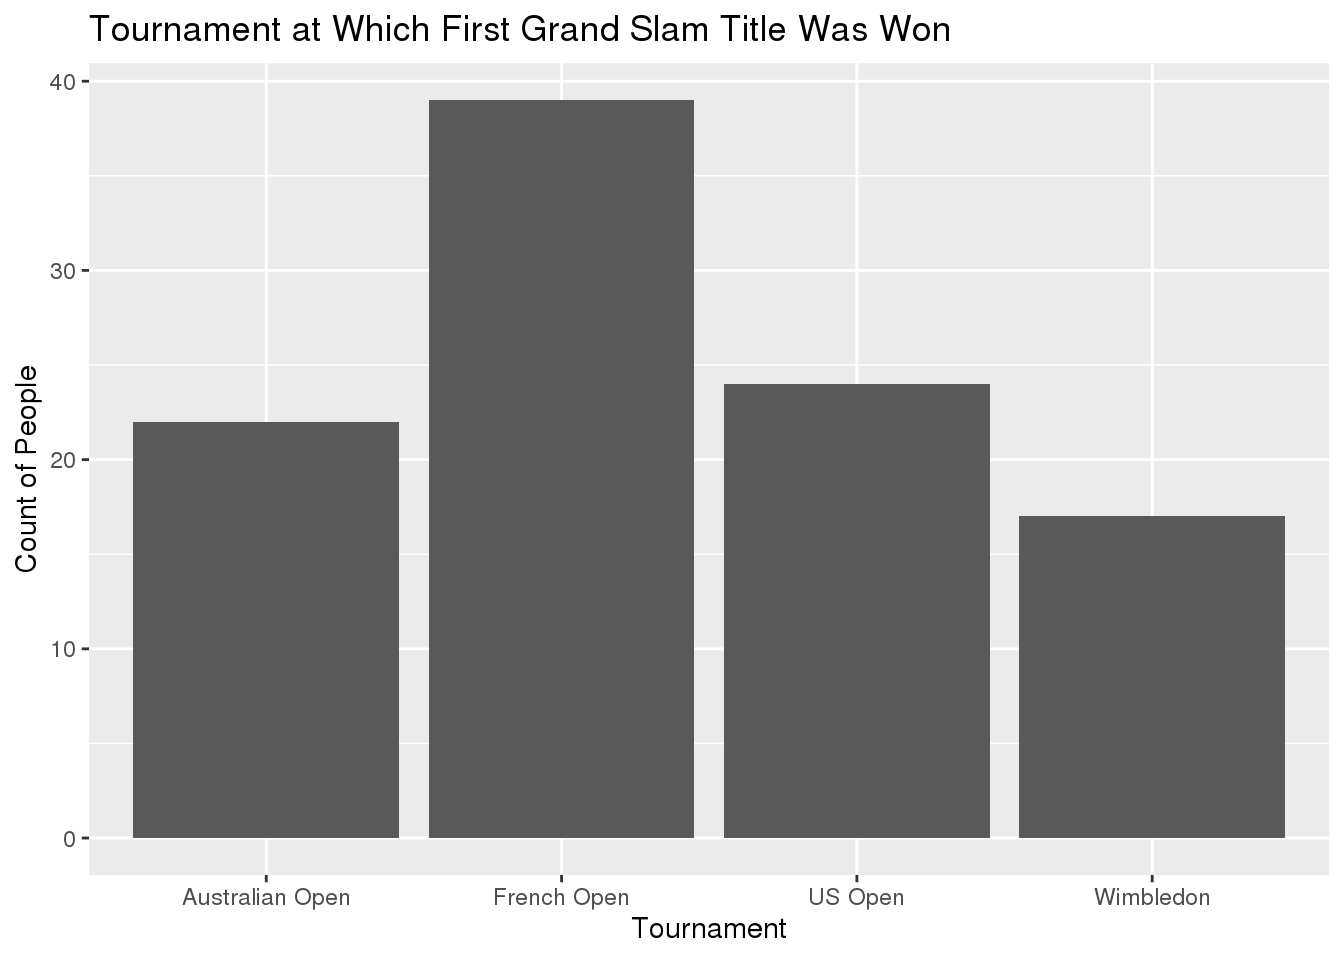
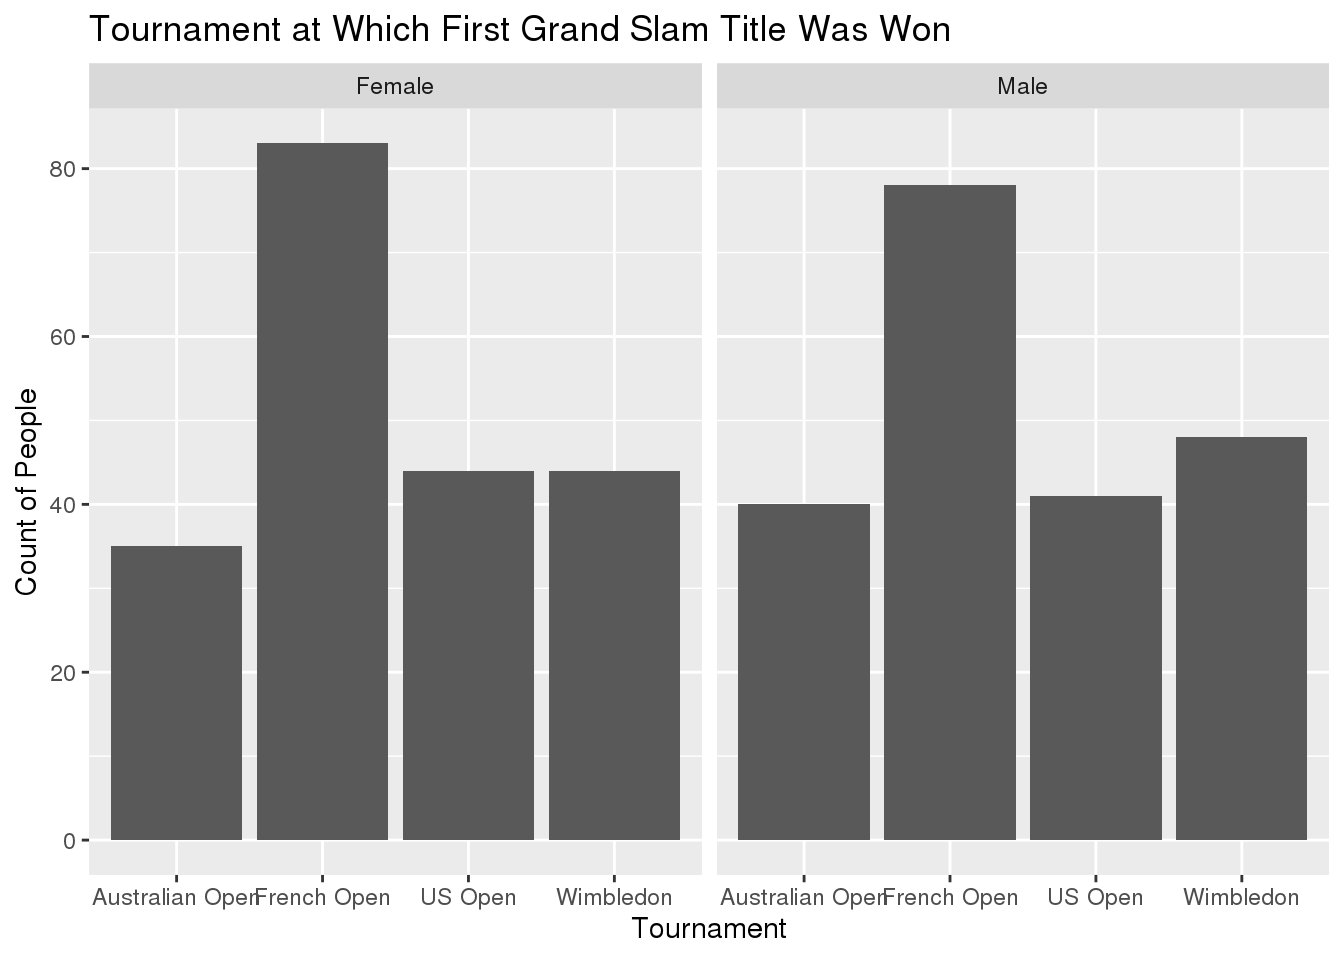
added commentary to graphics for tennis

diff --git a/content/post/2020-12-08-tennis-grand-slams/index.html b/content/post/2020-12-08-tennis-grand-slams/index.html
@@ -27,21 +27,22 @@ dat3 &lt;- read_csv(here::here(&quot;data&quot;, &quot;player_dob.csv&quot;))</c
 <p>The third data set comes from the <code>player_dob.csv</code> file on the Tidy Tuesday website. This data set has 105 observations of 5 variables. The <code>name</code> variable is the same as in the previous data set. For this data set, <code>grand_slam</code> indicates what tournament the player was playing at when they won their first grand slam. <code>date_of_first_title</code> gives the date at which this occurs. <code>date_of_birth</code> gives the date of birth of the player, allowing <code>age</code> to be calculated by finding the difference in number of days between the <code>date_of_first_title</code> and <code>date_of_birth</code> to give the age at the time of first grand slam championship.</p>
 <div id="question-1" class="section level2">
 <h2>Question 1</h2>
-<p>What grand slam is most common to win a first title at?
-* I will explore this by using the third data set to create a bar chart displaying how many players won their first grand slam at a given tournament. This could also be explored with facets such as age and gender.</p>
+<p>What grand slam is most common to win a first title at?</p>
 <pre class="r"><code>dat3 %&gt;%
-  filter(!is.na(grand_slam)) %&gt;%
-  ggplot(., aes(x = grand_slam)) +
+  left_join(dat2, c(&quot;name&quot; = &quot;name&quot;)) %&gt;%
+  filter(!is.na(grand_slam.x)) %&gt;%
+  ggplot(., aes(x = grand_slam.x)) +
   geom_bar() +
+  facet_wrap(&quot;gender&quot;) +
   ggtitle(&quot;Tournament at Which First Grand Slam Title Was Won&quot;) +
   ylab(&quot;Count of People&quot;) +
   xlab(&quot;Tournament&quot;)</code></pre>
-<p><img src="index_files/figure-html/unnamed-chunk-2-1.png" width="672" /></p>
+<p><img src="index_files/figure-html/unnamed-chunk-2-1.png" width="672" />
+The above graph shows that for both women and men, the majority of players win their first grand slam title at the French Open. Additionally the Australian Open has the least number of first time wins for both. It makes sense that the Australian Open has the least amount of first time wins since it is the first tournament of the calendar year. With the French Open being the second tournament of the year, and taking place several months after the Australian Open, it appears that the players come more prepared to their second tournament of the year to win a title for the first time.</p>
 </div>
 <div id="question-2" class="section level2">
 <h2>Question 2</h2>
-<p>Do players that are younger at the time of first grand slam win more tournaments overall?
-* I will analyze this by plotting the age at first win vs. number of rolling wins at the end of the data set. This could also be analyzed broken down into gender categories.</p>
+<p>Do players that are younger at the time of first grand slam win more tournaments overall?</p>
 <pre class="r"><code>dat2 %&gt;%
   group_by(name) %&gt;%
   filter(rolling_win_count == max(rolling_win_count)) %&gt;%
@@ -69,12 +70,12 @@ dat3 &lt;- read_csv(here::here(&quot;data&quot;, &quot;player_dob.csv&quot;))</c
   ggtitle(&quot;Total Number of Grand Slams Won vs. Age at First Win by Gender&quot;) +
   xlab(&quot;Age (in years)&quot;) +
   ylab(&quot;Total number of wins&quot;)</code></pre>
-<p><img src="index_files/figure-html/unnamed-chunk-3-2.png" width="672" /></p>
+<p><img src="index_files/figure-html/unnamed-chunk-3-2.png" width="672" />
+The graphs above show the total number of wins plotted against the age in years of a player when they won their first Grand Slam tournament. The first graph shows overall for both men and women, and the second graph breaks it down between men and women. In both graphs you can see that for the players that win their first tournament close to age 20, there is a significant difference in the number of grand slams that they will go on to win as opposed to those who win their first tournament in later years. This trend seems to be more predominant for women players. Although the total number of grand slams won appears to be close to the same for men and women, the drop off occurs at a later age for men, and occurs less drastically than with the change in number of wins for women.</p>
 </div>
 <div id="question-3" class="section level2">
 <h2>Question 3</h2>
-<p>How does the age of first title won differ between males and females?
-* This can be analyzed by creating a histogram of the age at which the first title is won and faceting by gender.</p>
+<p>How does the age of first title won differ between males and females?</p>
 <pre class="r"><code>dat2 %&gt;%
   group_by(name) %&gt;%
   filter(rolling_win_count == max(rolling_win_count)) %&gt;%
@@ -87,12 +88,12 @@ dat3 &lt;- read_csv(here::here(&quot;data&quot;, &quot;player_dob.csv&quot;))</c
   ggtitle(&quot;Distribution of Age at Which First Grand Slam was Won by Gender&quot;) +
   xlab(&quot;Age (in years)&quot;) +
   ylab(&quot;Number of people&quot;)</code></pre>
-<p><img src="index_files/figure-html/unnamed-chunk-4-1.png" width="672" /></p>
+<p><img src="index_files/figure-html/unnamed-chunk-4-1.png" width="672" />
+The histograms above show the distribution of the age of the players when they won their first grand slam divided into males and females. The distribution of the ages of females appears to be more skewed right while the distribution of the males appears to be much more normally distributed. This indicates that on average, females tend to be younger when winning their first grand slam tournament. This lines up with the graph show above in the previous question that women need to win a grand slam tournament at a younger age in order to have more career wins.</p>
 </div>
 <div id="question-4" class="section level2">
 <h2>Question 4</h2>
-<p>What tournament was most frequently missed?
-* This can be found by creating a bar chart of the tournaments and the counts of the number of players that were absent from the tournament. Additionally this could be split into male and female categories.</p>
+<p>What tournament was most frequently missed?</p>
 <pre class="r"><code>dat1 %&gt;%
   filter(outcome == &quot;Absent&quot;) %&gt;%
   ggplot(., aes(x = tournament)) +
@@ -109,6 +110,7 @@ dat3 &lt;- read_csv(here::here(&quot;data&quot;, &quot;player_dob.csv&quot;))</c
   ggtitle(&quot;Count of the Number of People That Missed Each Grand Slam by Gender&quot;) +
   xlab(&quot;Tournament&quot;) +
   ylab(&quot;Count of players&quot;)</code></pre>
-<p><img src="index_files/figure-html/unnamed-chunk-5-2.png" width="672" /></p>
+<p><img src="index_files/figure-html/unnamed-chunk-5-2.png" width="672" />
+The two charts above show the total number of players that did not attend a certain tournament, and the second chart breaks it down into women and men. In all three graphics, the Australian Open is the most missed tournament. This is also interesting to look at because going back to the first question, the Australian Open was the tournament that the least number of people won their first grand slam title at. This makes sense if a large number of people are choosing to not play in the tournament. It is also interesting to note that the total number of absent players for the women is higher than for the men.</p>
 </div>
 </div>
